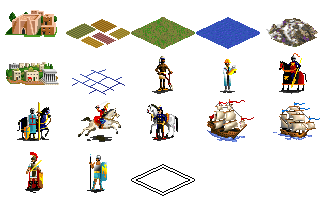
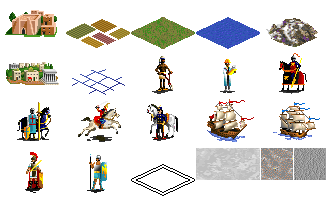
new texture sources

Changed region(s): [[0.5828, 0.731, 1.0, 0.9137]]

diff --git a/app/assets/javascripts/game/setup.js b/app/assets/javascripts/game/setup.js
@@ -12,6 +12,7 @@ $(document).ready(function() {
 
   canvasContext.translate(canvas.width / 2, 0);
   sourceImage = document.getElementById("image-source");
+  textureImage = document.getElementById("texture-source");
 
   hand = new Hand;
 
